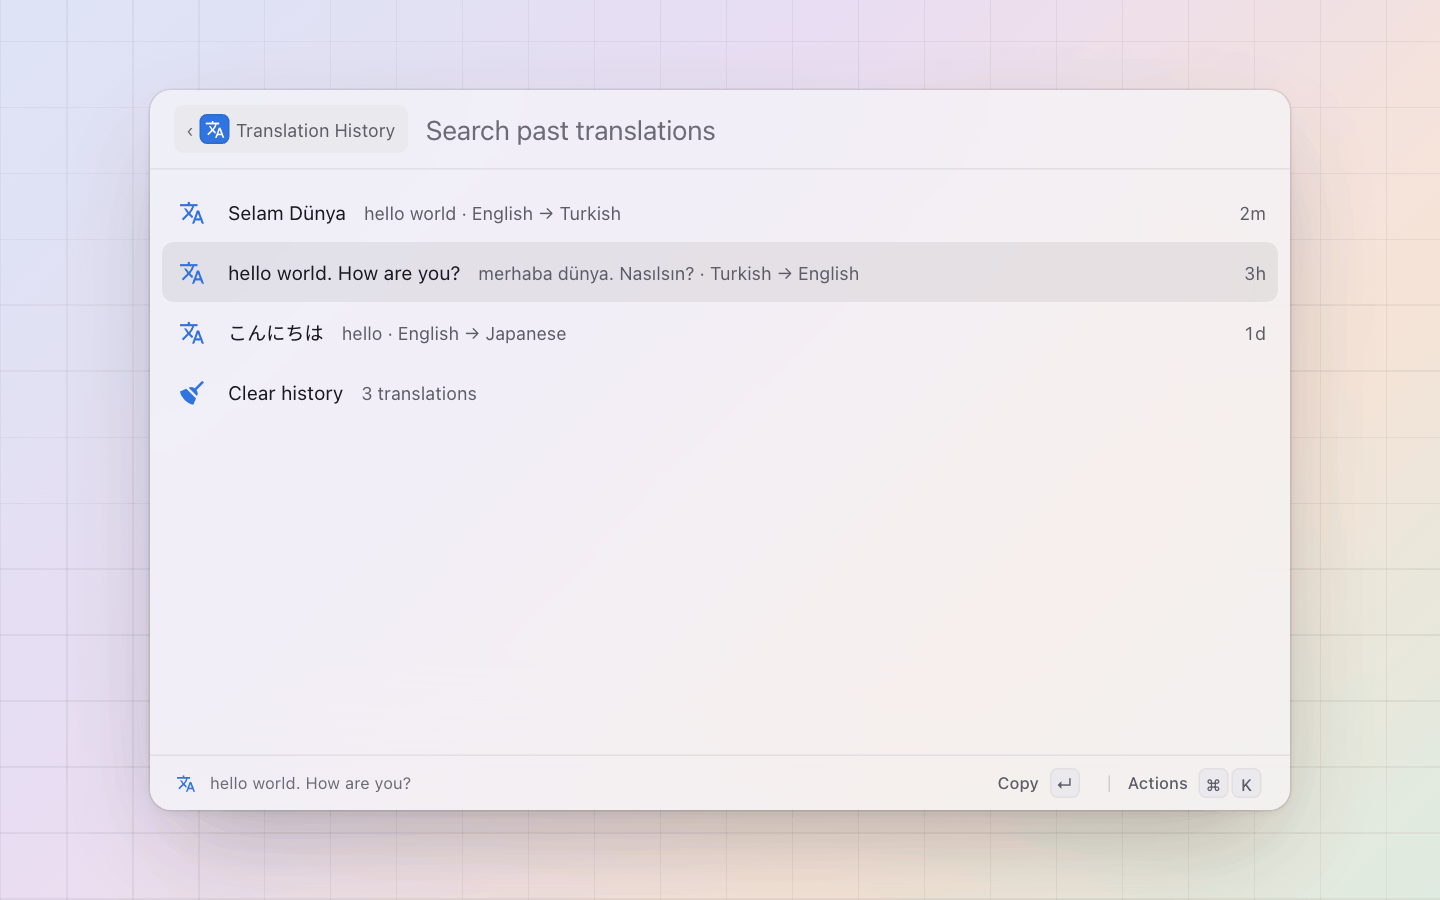
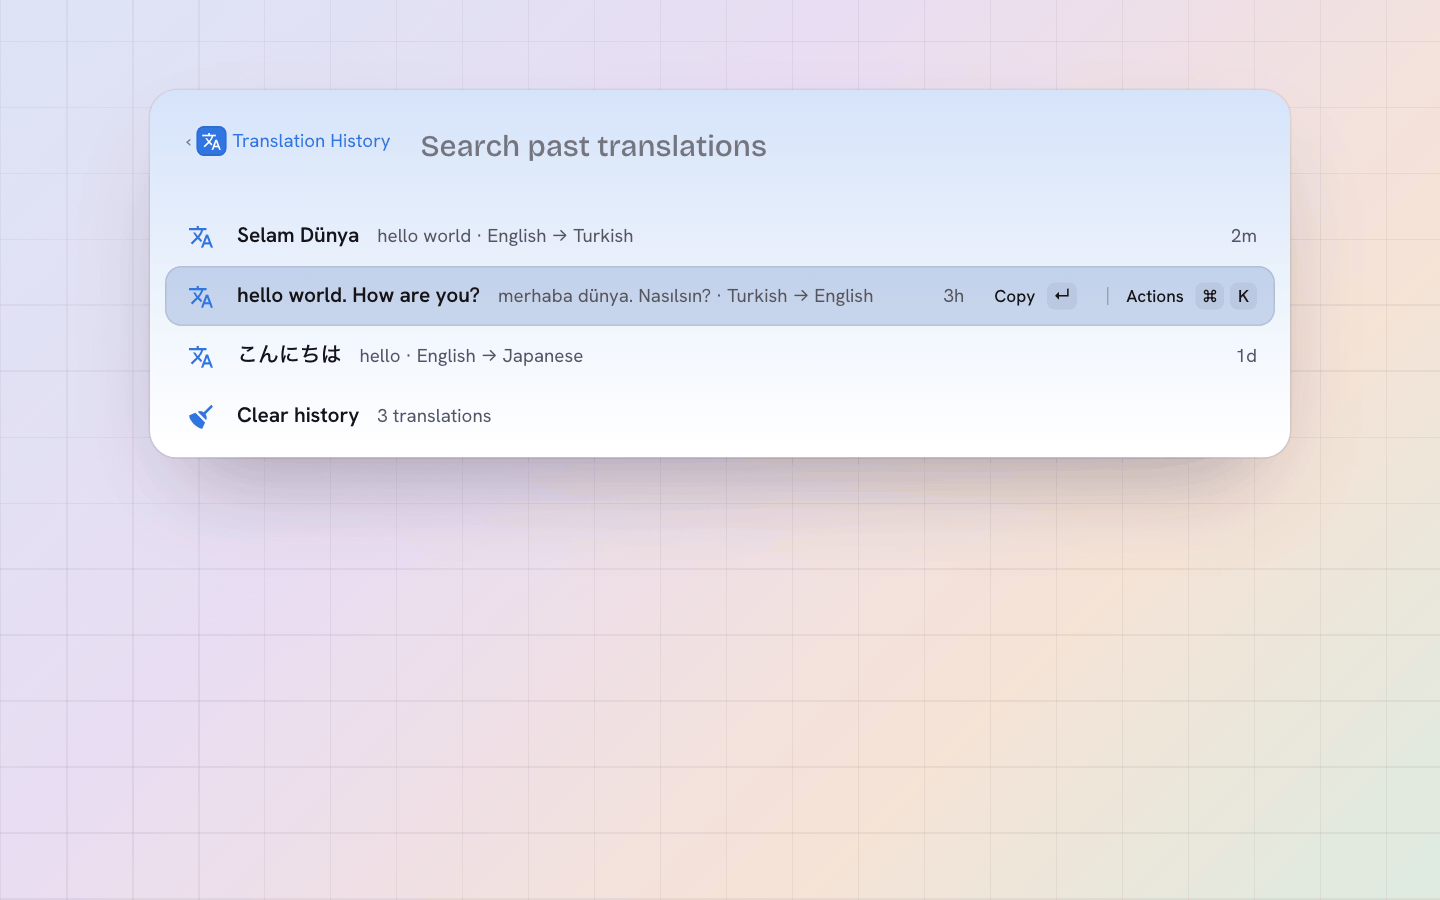
translate: the pane leads with the pair and the translation as its title, the source under it (history too); From/To/Backend rows dropped

diff --git a/translate/index.ts b/translate/index.ts
@@ -105,6 +105,13 @@ function textRow(id: string, text: string, lang: string, t: Translation, src: So
   return { id, name: short(text), subtitle: o.subtitle, icon: o.icon ?? GLYPH.translate, ...(id === "translation" ? { hero: true } : {}), keywords: o.keywords, accessories: o.accessories, detail: o.detail ?? { markdown: text }, actions: o.actions ?? [COPY, PASTE, SPEAK, COPY_SOURCE, OPEN_WEB] };
 }
 
+/** A translation's pane: the pair and backend on top, the translation as the title when it is short (else first in the text), the source under it. */
+function paired(result: string, source: string, from: string, to: string, backend: string): Detail {
+  const caption = `${pair(from, to)} · ${backend}`;
+  return result.length <= TITLE_MAX && !result.includes("\n") ? { caption, title: result, markdown: source } : { caption, markdown: `${result}\n\n---\n\n${source}` };
+}
+const TITLE_MAX = 100;
+
 /** Letters outside the Latin script: a romanisation row is worth showing for such a text, and an IPA pronunciation of a Latin one is not one. */
 const nonLatin = (text: string): boolean => /[\p{L}&&[^\p{Script=Latin}]]/v.test(text);
 
@@ -118,11 +125,8 @@ function rows(t: Translation, src: Source, cut: boolean, given: boolean): Item[]
     ];
   }
   const detail: Detail = {
-    markdown: `${t.text}\n\n---\n\n${src.text}`,
+    ...paired(t.text, src.text, t.from, t.to, BACKEND_NAME[t.backend]),
     metadata: [
-      { label: "From", value: `${nameOf(t.from)} (${t.from})` },
-      { label: "To", value: `${nameOf(t.to)} (${t.to})` },
-      { label: "Backend", value: BACKEND_NAME[t.backend] },
       ...(t.confidence !== undefined && !given ? [{ label: "Detection", value: `${Math.round(t.confidence * 100)}% sure` }] : []),
       { label: "Length", value: `${src.text.length} → ${t.text.length} characters${cut ? ` (cut at ${MAX_CHARS})` : ""}` },
     ],
@@ -205,7 +209,7 @@ async function pick(id: string, action?: string, ctx?: Ctx): Promise<Effect> {
 
 // ---- history palette -----------------------------------------------------------------
 
-const historyDetail = (e: Entry): Detail => ({ markdown: `${e.result}\n\n---\n\n${e.text}`, metadata: [{ label: "From", value: nameOf(e.from) }, { label: "To", value: nameOf(e.to) }, { label: "Backend", value: BACKEND_NAME[e.backend] ?? e.backend }, { label: "When", value: when(e.at) }] });
+const historyDetail = (e: Entry): Detail => ({ ...paired(e.result, e.text, e.from, e.to, BACKEND_NAME[e.backend] ?? e.backend), metadata: [{ label: "When", value: when(e.at) }] });
 /** One row per (target, text, result), which is also what `remember` dedupes on; a hash, since the texts can be long. */
 const historyId = (e: Entry) => `h:${createHash("sha1").update(`${e.to}|${e.text}|${e.result}`).digest("hex").slice(0, 16)}`;
 

diff --git a/test/translate.test.ts b/test/translate.test.ts
@@ -164,8 +164,9 @@ describe("translate", () => {
     expect(items[0]).toMatchObject({ name: "Selam Dünya", subtitle: "English → Turkish · Google Translate", keywords: ["hello world"] });
     expect(items[0].actions!.map((a) => a.id)).toEqual(["copy", "paste", "speak", "copy_source", "open"]);
     expect(items[0].actions![2].shortcut).toBe("cmd+shift+s");
-    expect(items[0].detail!.markdown).toBe("Selam Dünya\n\n---\n\nhello world");
-    expect(items[0].detail!.metadata).toEqual([{ label: "From", value: "English (en)" }, { label: "To", value: "Turkish (tr)" }, { label: "Backend", value: "Google Translate" }, { label: "Detection", value: "76% sure" }, { label: "Length", value: "11 → 11 characters" }]);
+    // The pane: the pair on top, the translation as its title, the source under it.
+    expect(items[0].detail).toMatchObject({ caption: "English → Turkish · Google Translate", title: "Selam Dünya", markdown: "hello world" });
+    expect(items[0].detail!.metadata).toEqual([{ label: "Detection", value: "76% sure" }, { label: "Length", value: "11 → 11 characters" }]);
     expect(items[1]).toMatchObject({ name: "English detected", subtitle: "76% sure · translated to Turkish", actions: [] });
     expect(items[2]).toMatchObject({ name: "merhaba dünya", subtitle: "Alternative" });
     expect(items[3]).toMatchObject({ name: "Swap: Turkish → English", actions: [{ id: "swap", title: "Swap and translate" }] });
